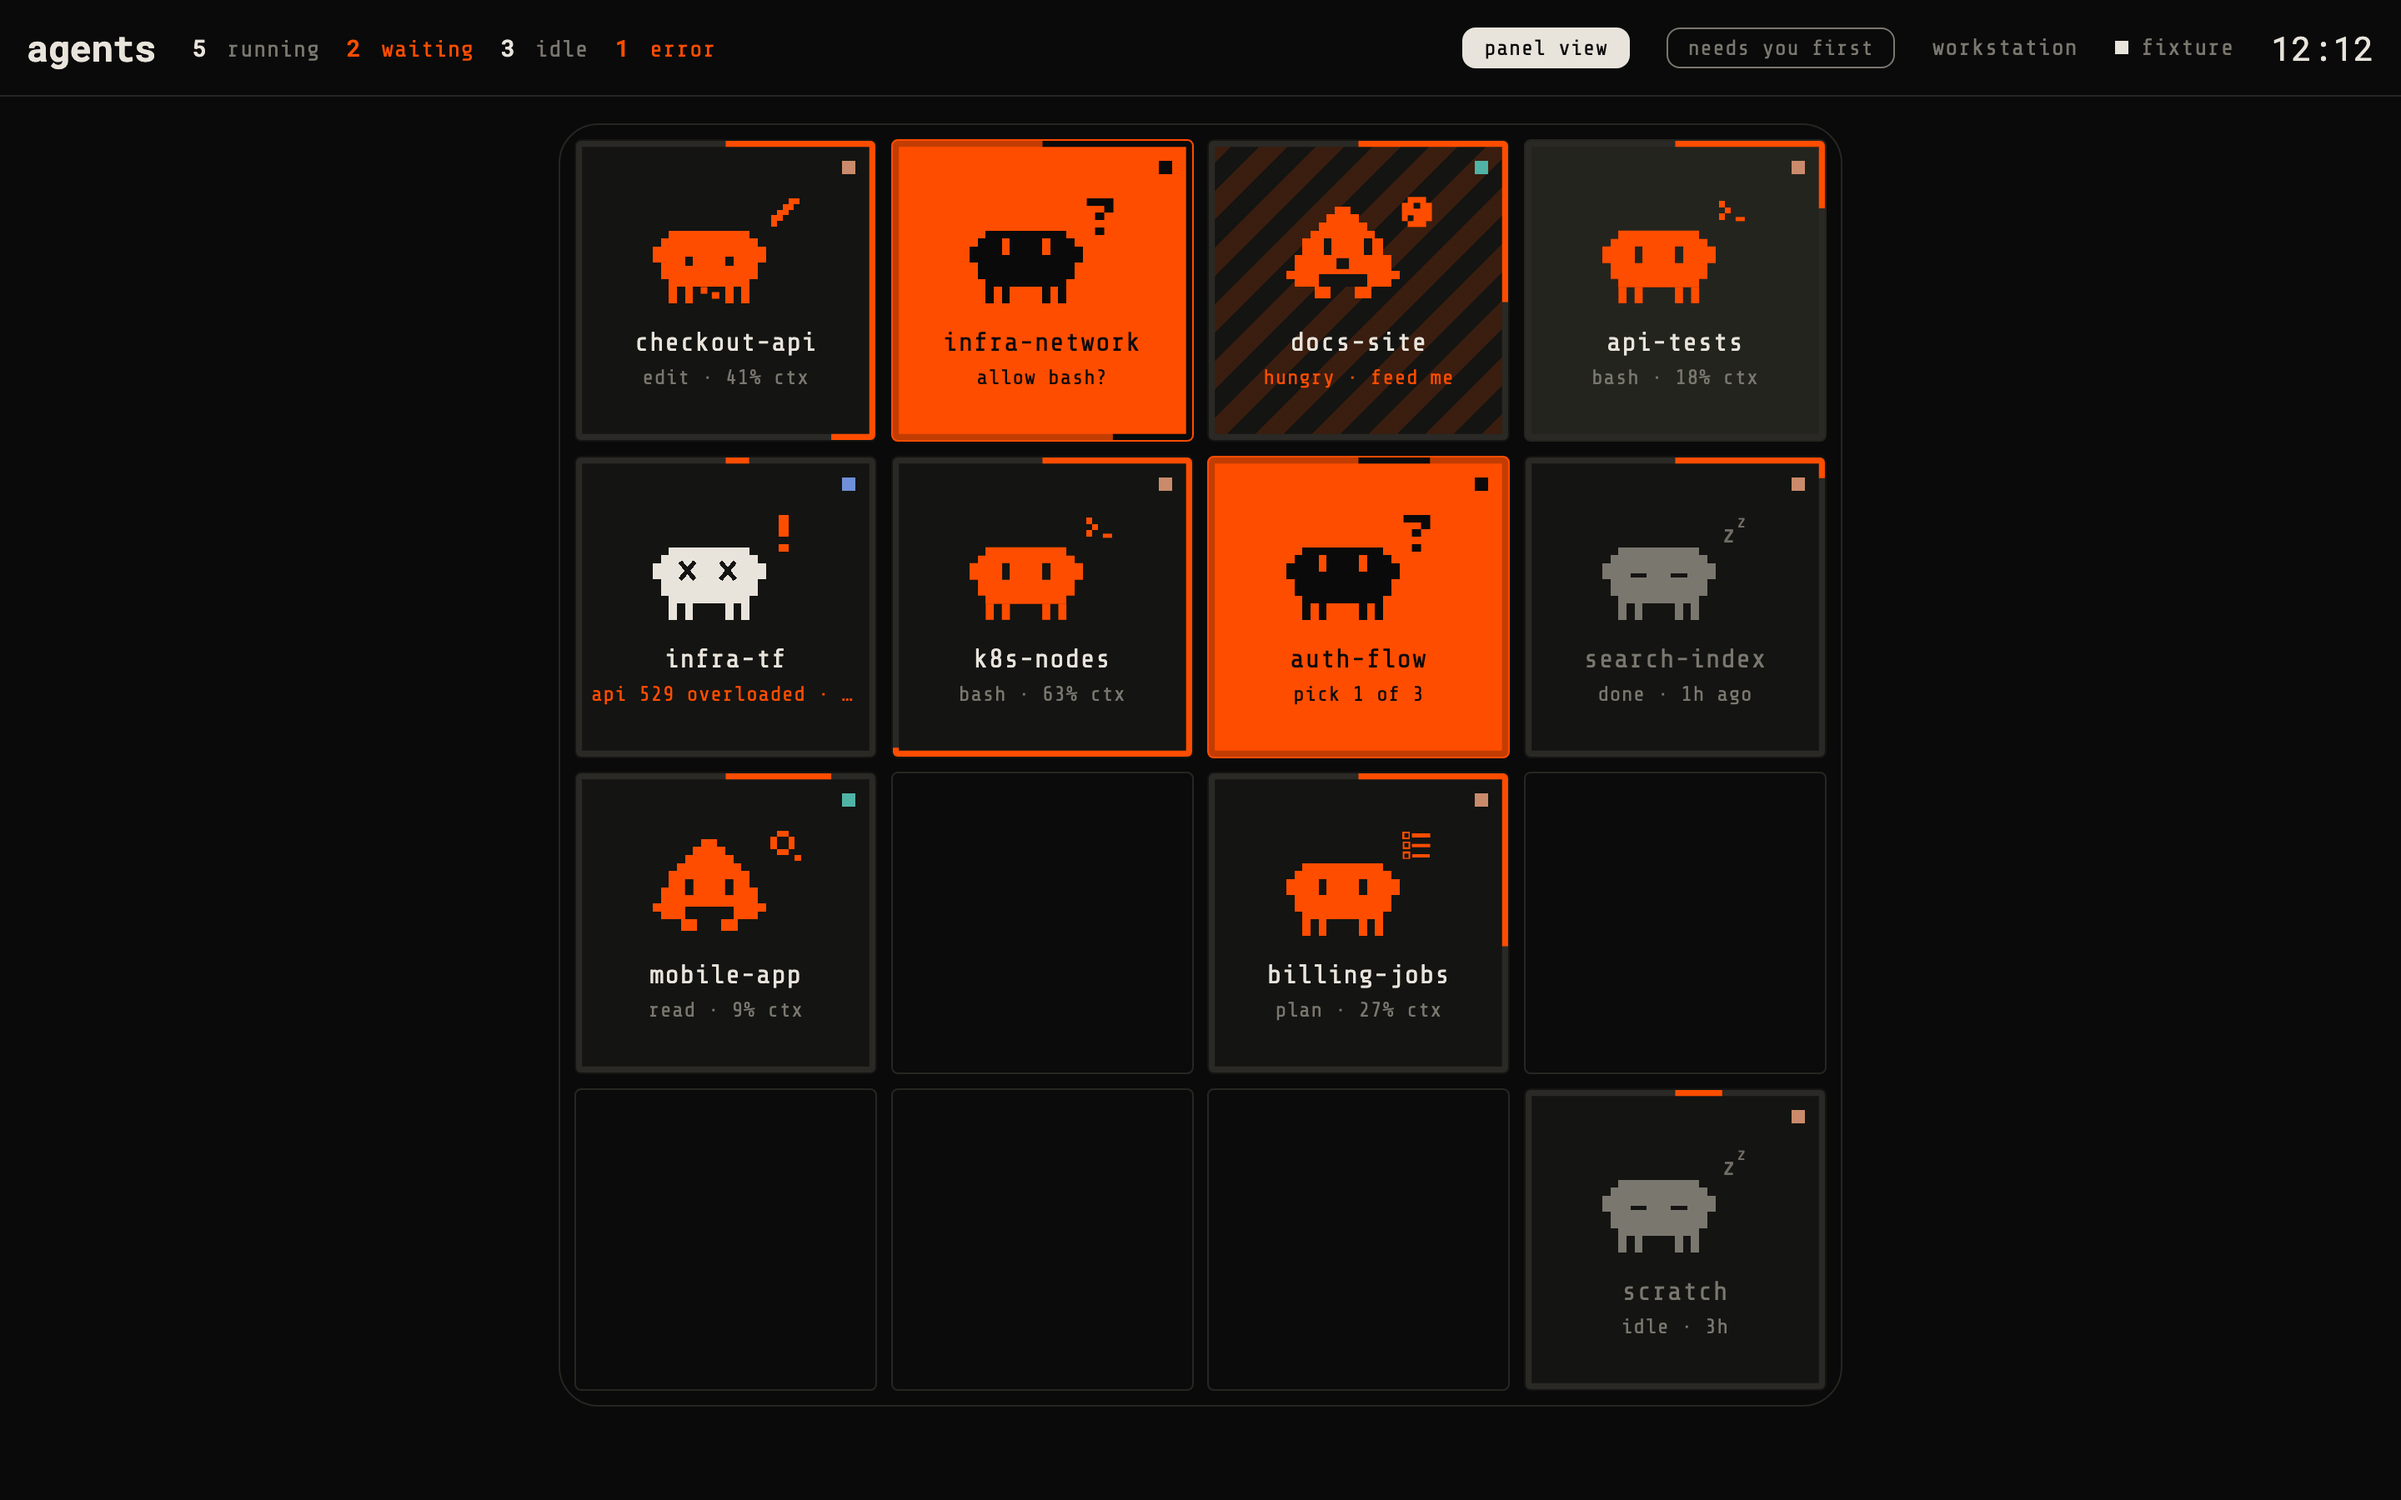
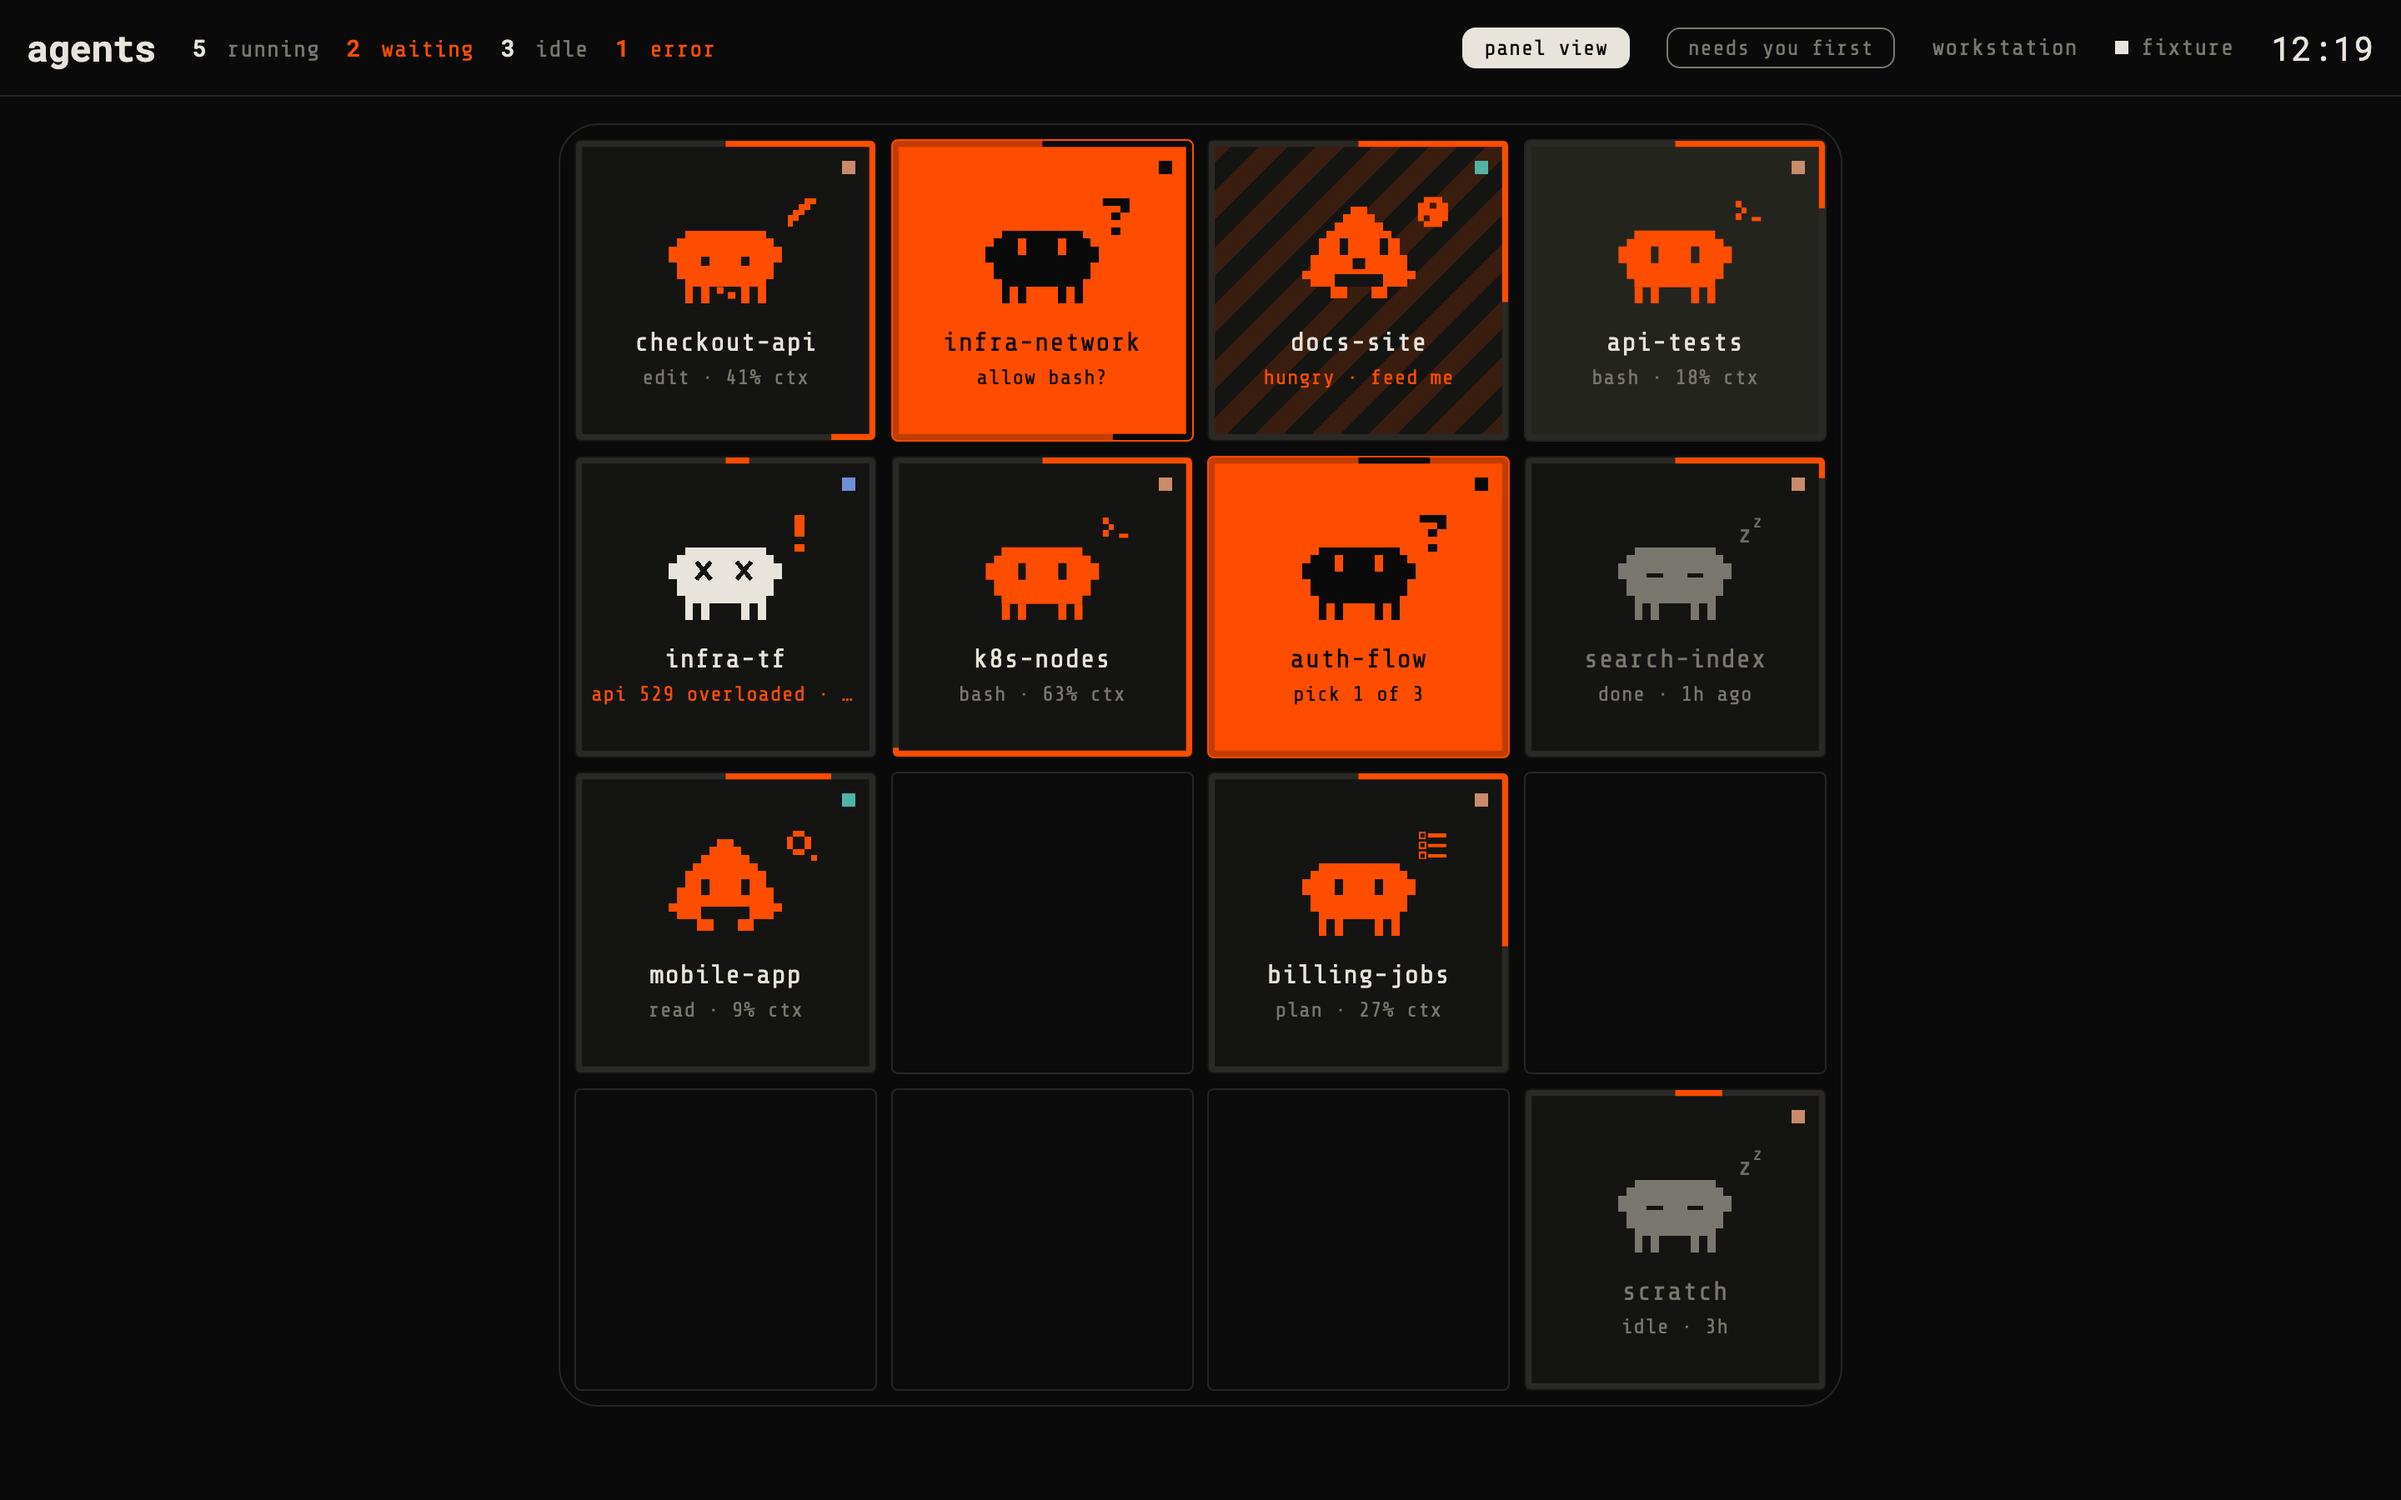
Centre the critter body on its tile; bubbles hang off to the right
Claude-Session: https://claude.ai/code/session_01Qi6CVTpwKe76G62P4KuUZF

diff --git a/backend/internal/web/static/app.css b/backend/internal/web/static/app.css
@@ -207,6 +207,8 @@ body.offline .main { opacity: 0.4; }
 }
 .tile .spr { width: 54%; max-width: 110px; line-height: 0; margin-top: 4px; }
 .tile .spr svg { width: 100%; height: auto; display: block; overflow: visible; }
+/* Centre the body (x 0..14 of the 18-wide sprite), not body + bubble: shift by 2/18. */
+.tile .spr svg, .empty-art svg { transform: translateX(11.111%); }
 .tile .name {
   margin-top: 9%;
   font-size: 16px; letter-spacing: 0.5px; color: var(--label);
